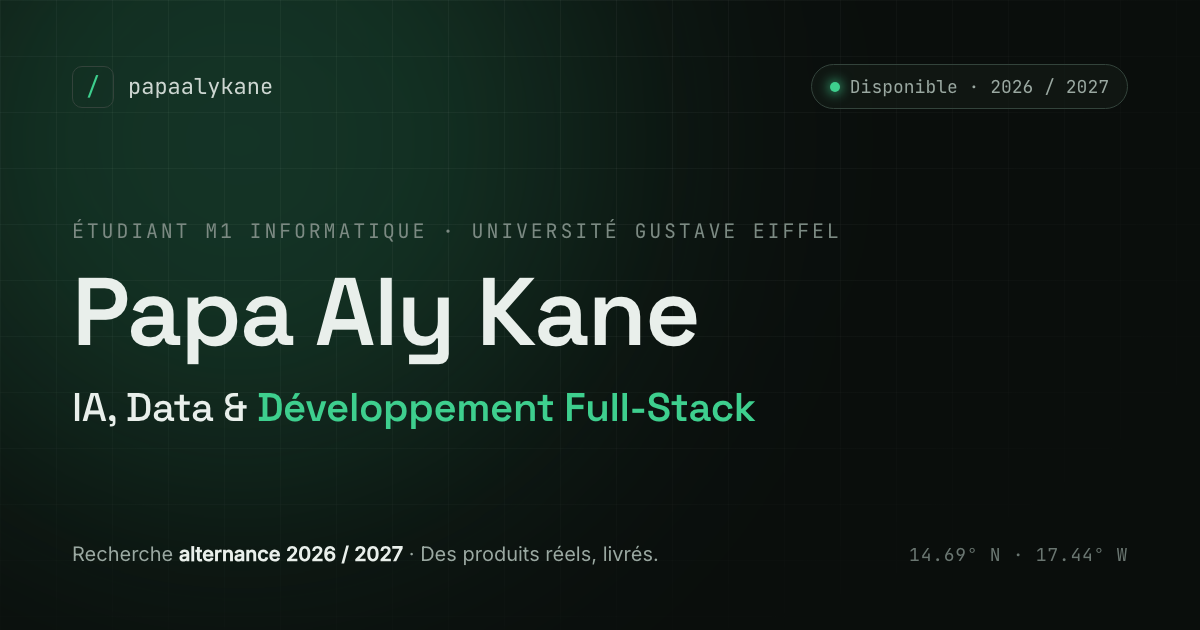
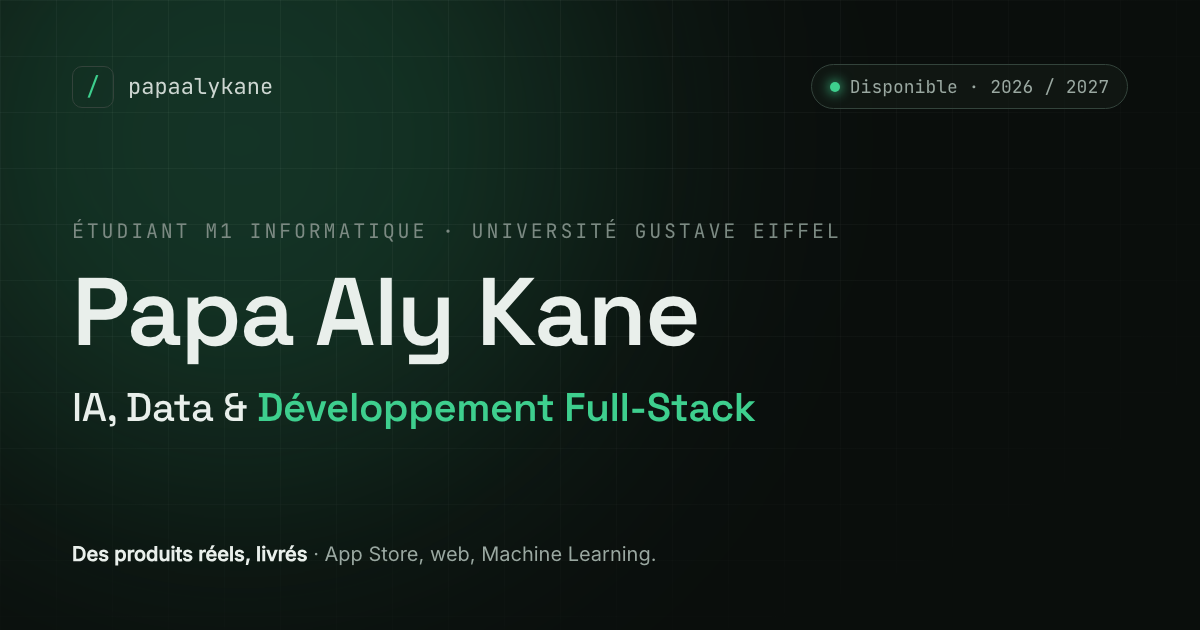
Retire les références à l'origine et neutralise les métadonnées
- plus de coordonnées ni de mention Kaolack / Sénégal dans le hero et le footer
- image Open Graph régénérée sans coordonnées ni « recherche alternance »
- descriptions Open Graph et Twitter alignées sur « disponible en 2026 / 2027 »

Changed region(s): [[0.0617, 0.8444, 0.555, 0.9048], [0.7708, 0.8746, 0.8325, 0.9048], [0.8942, 0.8746, 0.925, 0.9048]]

diff --git a/src/app/layout.tsx b/src/app/layout.tsx
@@ -30,7 +30,7 @@ export const metadata: Metadata = {
     template: "%s · Papa Aly Kane",
   },
   description:
-    "Étudiant M1 Informatique en recherche d'alternance 2026/2027 en IA, Data et développement Full-Stack. Des produits réels, livrés et testés par de vrais utilisateurs.",
+    "Étudiant M1 Informatique, disponible en 2026 / 2027 en IA, Data et développement Full-Stack. Des produits réels, livrés et testés par de vrais utilisateurs.",
   keywords: [
     "Papa Aly Kane",
     "alternance",
@@ -53,10 +53,10 @@ export const metadata: Metadata = {
     siteName: "Papa Aly Kane",
     title: "Papa Aly Kane · IA, Data & Développement Full-Stack",
     description:
-      "En recherche d'alternance 2026/2027. Des produits réels, livrés et testés par de vrais utilisateurs, du mobile au Machine Learning.",
+      "Disponible en 2026 / 2027. Des produits réels, livrés et testés par de vrais utilisateurs, du mobile au Machine Learning.",
     images: [
       {
-        url: "/og.png",
+        url: "/og.png?v=2",
         width: 1200,
         height: 630,
         alt: "Papa Aly Kane · IA, Data & Développement Full-Stack",
@@ -67,8 +67,8 @@ export const metadata: Metadata = {
     card: "summary_large_image",
     title: "Papa Aly Kane · IA, Data & Développement Full-Stack",
     description:
-      "En recherche d'alternance 2026/2027. Des produits réels, livrés et testés par de vrais utilisateurs.",
-    images: ["/og.png"],
+      "Disponible en 2026 / 2027. Des produits réels, livrés et testés par de vrais utilisateurs.",
+    images: ["/og.png?v=2"],
   },
   robots: { index: true, follow: true },
 };

diff --git a/src/components/sections/Hero.tsx b/src/components/sections/Hero.tsx
@@ -27,7 +27,7 @@ export function Hero() {
     { k: "focus", v: "IA · Data · Full-Stack" },
     { k: "building", v: ":flex → App Store" },
     { k: locale === "fr" ? "études" : "studying", v: "M1 · Gustave Eiffel" },
-    { k: locale === "fr" ? "basé" : "based", v: "Île-de-France ↔ Kaolack" },
+    { k: locale === "fr" ? "basé" : "based", v: "Île-de-France" },
   ];
 
   return (
@@ -145,9 +145,6 @@ export function Hero() {
                 </dd>
               </div>
             </dl>
-            <div className="border-t border-border px-4 py-2.5 font-mono text-[0.68rem] tracking-wide text-ink-faint">
-              {profile.origin.coordinates}
-            </div>
           </div>
         </motion.div>
       </motion.div>

diff --git a/src/i18n/dictionary.ts b/src/i18n/dictionary.ts
@@ -69,7 +69,7 @@ export const dictionary = {
     footer: {
       built: "Conçu et développé avec Next.js, TypeScript & Tailwind.",
       source: "Code source de ce site",
-      location: "Île-de-France, France · originaire du Sénégal",
+      location: "Île-de-France, France",
       rights: "Tous droits réservés.",
     },
     theme: {
@@ -135,7 +135,7 @@ export const dictionary = {
     footer: {
       built: "Designed and built with Next.js, TypeScript & Tailwind.",
       source: "Source code of this site",
-      location: "Île-de-France, France · from Kaolack, Senegal",
+      location: "Île-de-France, France",
       rights: "All rights reserved.",
     },
     theme: {

diff --git a/src/components/Footer.tsx b/src/components/Footer.tsx
@@ -68,11 +68,7 @@ export function Footer() {
 
         <div className="flex flex-col gap-2 border-t border-border pt-6 font-mono text-[0.7rem] tracking-wide text-ink-faint sm:flex-row sm:items-center sm:justify-between">
           <span>{t.footer.location}</span>
-          <span className="flex items-center gap-3">
-            <span>{profile.origin.coordinates}</span>
-            <span aria-hidden="true">·</span>
-            <span>© {year} {profile.name}</span>
-          </span>
+          <span>© {year} {profile.name}</span>
         </div>
       </div>
     </footer>

diff --git a/src/data/profile.ts b/src/data/profile.ts
@@ -16,9 +16,4 @@ export const profile = {
     fr: "Île-de-France, France",
     en: "Île-de-France, France",
   } as Localized,
-  /** Discreet Senegal reference: Kaolack coordinates used as a mono easter egg. */
-  origin: {
-    label: { fr: "Kaolack, Sénégal", en: "Kaolack, Senegal" } as Localized,
-    coordinates: "14.15° N · 16.07° W",
-  },
 } as const;

diff --git a/assets/og-template.html b/assets/og-template.html
@@ -68,8 +68,7 @@
     </div>
 
     <div class="bottom">
-      <div class="avail">Recherche <b>alternance 2026 / 2027</b> · Des produits réels, livrés.</div>
-      <div class="coords">14.69° N · 17.44° W</div>
+      <div class="avail"><b>Des produits réels, livrés</b> · App Store, web, Machine Learning.</div>
     </div>
   </div>
 </body>

diff --git a/README.md b/README.md
@@ -1,6 +1,6 @@
 # E-Portfolio · Papa Aly Kane
 
-Portfolio personnel bilingue (FR/EN) pour une recherche d'alternance 2026/2027 en IA, Data et développement Full-Stack.
+Portfolio personnel bilingue (FR/EN) : IA, Data et développement Full-Stack. En ligne sur [eportfolio-pak.vercel.app](https://eportfolio-pak.vercel.app).
 
 **Stack :** Next.js 16 (App Router) · TypeScript · Tailwind CSS v4 · Framer Motion · next-themes.
 
